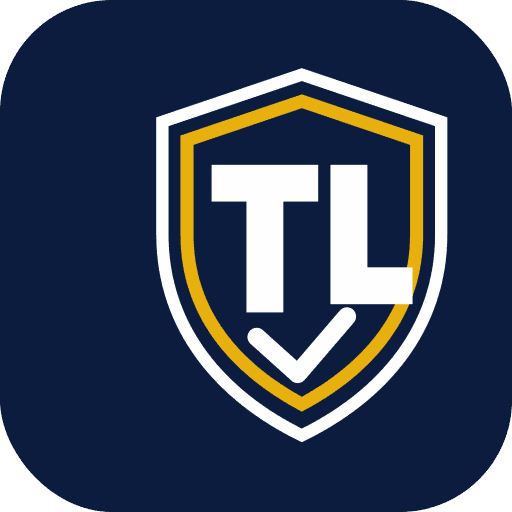
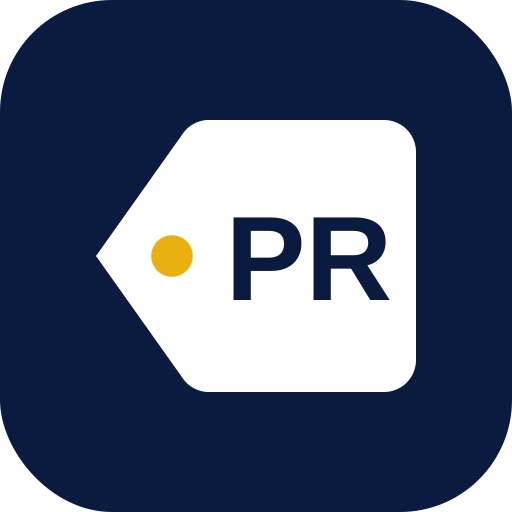
Rename to PriceRight Tech Ltd; fix camera scanner; add photo scan fallback
The camera box was hidden until filled, so the scanner measured it at zero
width and failed to start. It now shows before starting, falls back to any
available camera, explains permission errors, and offers a photo option.

Claude-Session: https://claude.ai/code/session_01DHj1jSjnjqGBsb7HLHoKHQ

Changed region(s): [[0.1875, 0.125, 0.875, 0.875]]

diff --git a/app.js b/app.js
@@ -1,5 +1,5 @@
 'use strict';
-/* Top League Electronics — store + staff app */
+/* PriceRight Tech Ltd — store + staff app */
 const CFG = window.TLE_CONFIG || {};
 const REMOTE = !!(CFG.supabaseUrl && CFG.supabaseAnonKey);
 const IS_STAFF = location.pathname.replace(/\/+$/, '').startsWith('/staff');
@@ -96,7 +96,7 @@ const S = { costs: {}, staff: {} }; COLL.forEach(c => S[c] = {});
 const DEFAULT_SETTINGS = {
   areas: [{ name: 'Dansoman', fee: 25 }, { name: 'Osu', fee: 35 }, { name: 'East Legon', fee: 40 }, { name: 'Madina', fee: 45 }, { name: 'Kasoa', fee: 50 }, { name: 'Tema', fee: 60 }],
   riders: [],
-  store: { name: 'Top League Electronics', branch: 'Main Branch', address: 'Accra, Ghana', phone: '', whatsapp: '', email: '', receiptFooter: 'Returns and warranty claims need the serial number shown above.' }
+  store: { name: 'PriceRight Tech Ltd', branch: 'Main Branch', address: 'Accra, Ghana', phone: '', whatsapp: '', email: '', receiptFooter: 'Returns and warranty claims need the serial number shown above.' }
 };
 // Offline-only accounts are not used once Supabase is connected; staff sign in with their Supabase logins.
 const LOCAL_STAFF = {};
@@ -323,7 +323,7 @@ const API = {
   async verify(serial, contact) {
     if (REMOTE) { const { data, error } = await sb.rpc('verify_purchase', { serial, contact }); if (error) throw new Error(friendlyErr(error.message)); return data }
     const s = normSerial(serial), u = S.units[s];
-    if (!u) return { ok: false, msg: 'No record of this serial. It was not sold by Top League Electronics.' };
+    if (!u) return { ok: false, msg: 'No record of this serial. It was not sold by PriceRight Tech Ltd.' };
     const f = findSaleItem(s);
     if (u.status !== 'sold' || !f) return { ok: false, msg: 'This serial can’t be claimed online. Please contact the shop.' };
     const c = cust(f.sale.custId), n = normPhone(contact), e = String(contact || '').trim().toLowerCase();
@@ -363,7 +363,7 @@ function openScanner({ title, onScan, keepOpen = false, help = '' }) {
   SC = { onScan, keepOpen, last: '', lastT: 0, cam: null };
   modal(esc(title), `${help ? `<p class="muted small" style="margin-bottom:14px">${help}</p>` : ''}
   <div id="reader" class="reader"></div>
-  <div class="row"><button class="btn pri" id="camBtn" onclick="startCam()">${ic('camera', 16)}Scan with camera</button><button class="btn ghost" onclick="stopCam()">Stop camera</button></div>
+  <div class="camrow"><button class="btn pri" id="camBtn" onclick="startCam()">${ic('camera', 16)}Scan with camera</button><label class="btn filebtn">${ic('image', 16)}Take a photo<input type="file" accept="image/*" capture="environment" onchange="scanPhoto(this)"></label></div><div id="readerFile" style="display:none"></div>
   <label class="f" for="manualSerial">Can’t scan it? Type the code</label>
   <div class="row"><input id="manualSerial" class="mono" autocomplete="off" autocapitalize="characters" spellcheck="false" onkeydown="if(event.key==='Enter')manualScan()"><button class="btn" onclick="manualScan()">Add</button></div>
   <p class="hint">A USB or Bluetooth barcode scanner also works: click in this box and scan. Typed codes are flagged in the audit log.</p>
@@ -379,15 +379,47 @@ async function handleCode(raw, method) {
   if (res.ok && !SC.keepOpen) setTimeout(closeModal, 380);
 }
 function manualScan() { const i = $('#manualSerial'); if (!i) return; const v = i.value; i.value = ''; handleCode(v, 'manual'); i.focus() }
+const SCAN_FORMATS = () => { const F = window.Html5QrcodeSupportedFormats; return F ? ['CODE_128', 'CODE_39', 'CODE_93', 'EAN_13', 'EAN_8', 'UPC_A', 'UPC_E', 'ITF', 'CODABAR', 'QR_CODE', 'DATA_MATRIX', 'PDF_417'].map(k => F[k]).filter(v => v !== undefined) : undefined };
+function camError(e) {
+  const n = (e && (e.name || e.message || e)) + '';
+  if (/NotAllowed|Permission/i.test(n)) return 'Camera permission is blocked. Allow camera access for this site in your browser settings, then try again.';
+  if (/NotFound|Requested device not found|no camera/i.test(n)) return 'No camera found on this device. Use “Take a photo” or type the code.';
+  if (/NotReadable|in use|Could not start/i.test(n)) return 'The camera is being used by another app. Close it and try again.';
+  if (!window.isSecureContext) return 'The camera only works on the secure (https) address.';
+  return 'Couldn’t start the camera. Use “Take a photo” or type the code.';
+}
 async function startCam() {
   if (!SC || SC.cam) return;
-  if (!window.Html5Qrcode) return toast('The camera scanner didn’t load. Check the connection, or type the code.', 'err');
+  if (!window.Html5Qrcode) return toast('The scanner didn’t load. Check the connection, or type the code.', 'err');
+  const box = $('#reader'); if (!box) return; box.classList.add('on');
+  const btn = $('#camBtn'); if (btn) btn.disabled = true;
+  const cfg = { fps: 12, aspectRatio: 1.6, qrbox: (w, h) => ({ width: Math.max(220, Math.floor(w * .88)), height: Math.max(110, Math.floor(Math.min(h, w) * .45)) }) };
+  const make = () => new Html5Qrcode('reader', { verbose: false, formatsToSupport: SCAN_FORMATS(), experimentalFeatures: { useBarCodeDetectorIfSupported: true } });
   try {
-    SC.cam = new Html5Qrcode('reader', { verbose: false, experimentalFeatures: { useBarCodeDetectorIfSupported: true } });
-    await SC.cam.start({ facingMode: 'environment' }, { fps: 12, qrbox: (w) => ({ width: Math.floor(Math.min(340, w * .9)), height: 130 }) }, txt => handleCode(txt, 'scan'), () => { });
-  } catch (e) { SC && (SC.cam = null); toast('Camera unavailable. Allow camera access, or type the code.', 'err') }
+    SC.cam = make();
+    try { await SC.cam.start({ facingMode: { ideal: 'environment' } }, cfg, txt => handleCode(txt, 'scan'), () => { }) }
+    catch (e1) {
+      if (/NotAllowed|Permission/i.test((e1 && e1.name || e1) + '')) throw e1;
+      const cams = await Html5Qrcode.getCameras();
+      if (!cams || !cams.length) throw e1;
+      const back = cams.find(c => /back|rear|environment/i.test(c.label)) || cams[cams.length - 1];
+      try { await SC.cam.clear() } catch (e) { }
+      SC.cam = make();
+      await SC.cam.start(back.id, cfg, txt => handleCode(txt, 'scan'), () => { });
+    }
+  } catch (e) { if (SC) SC.cam = null; box.classList.remove('on'); box.innerHTML = ''; toast(camError(e), 'err') }
+  finally { if (btn) btn.disabled = false }
 }
-async function stopCam() { if (SC && SC.cam) { try { await SC.cam.stop(); SC.cam.clear() } catch (e) { } SC.cam = null } }
+async function scanPhoto(inp) {
+  const f = inp.files && inp.files[0]; inp.value = ''; if (!f) return;
+  if (!window.Html5Qrcode) return toast('The scanner didn’t load. Type the code instead.', 'err');
+  await stopCam();
+  const tmp = new Html5Qrcode('readerFile', { verbose: false, formatsToSupport: SCAN_FORMATS(), experimentalFeatures: { useBarCodeDetectorIfSupported: true } });
+  try { const txt = await tmp.scanFile(f, false); handleCode(txt, 'scan') }
+  catch (e) { beep(false); toast('No barcode found in that photo. Hold the phone steady, fill the frame with the barcode and try again.', 'err') }
+  finally { try { tmp.clear() } catch (e) { } }
+}
+async function stopCam() { if (SC && SC.cam) { try { await SC.cam.stop(); SC.cam.clear() } catch (e) { } SC.cam = null } const b = $('#reader'); if (b) { b.classList.remove('on') } }
 const scanBtn = (label, sub, onclick) => `<button class="scan" onclick="${onclick}"><span class="sq">${ic('scan', 22)}</span><span><b>${label}</b><span class="sub">${sub}</span></span></button>`;
 const emptyBox = (icon, title, text, btn = '') => `<div class="empty">${ic(icon, 28, 1.5)}<b>${title}</b>${text}${btn ? `<div>${btn}</div>` : ''}</div>`;
 
@@ -417,8 +449,8 @@ function renderChrome() { if (IS_STAFF && ME) { const n = $('#navWrap'); if (n) 
 
 /* ================= staff: sign in ================= */
 function renderLogin(err = '') {
-  document.title = 'Sign in · Top League Staff';
-  $('#app').innerHTML = `<div class="auth"><div class="brandside"><div class="lockup"><span class="mk"></span><span class="wm">Top League<span>Electronics</span></span></div>
+  document.title = 'Sign in · PriceRight Staff';
+  $('#app').innerHTML = `<div class="auth"><div class="brandside"><div class="lockup"><span class="mk"></span><span class="wm">PriceRight<span>Tech Ltd</span></span></div>
   <div class="copy"><h1>Every device, scanned in and scanned out.</h1><p>Stock, sales, online orders and returns for the shop, tied together by the serial number.</p><div class="tagrow">${sn('IN STOCK')}${sn('SOLD')}${sn('VERIFIED')}</div></div>
   <small>Staff only. Customers can shop at <a href="/" style="color:#fff">${esc(location.host || 'the store')}</a>.</small></div>
   <div class="formside"><form onsubmit="event.preventDefault();doLogin(this)" novalidate><h2>Sign in</h2><p class="lede">Use the email and password from your IT admin.</p>
@@ -509,9 +541,9 @@ function renderStaff() {
   const r = route(), page = r.parts[0] || 'dashboard';
   const item = NAV.flatMap(g => g[1]).find(i => i[0] === page);
   if (!item || (item[3] && !can(item[3]))) { location.hash = '/dashboard'; return }
-  document.title = TITLES[page] + ' · Top League Staff';
+  document.title = TITLES[page] + ' · PriceRight Staff';
   const body = V[page](r);
-  $('#app').innerHTML = `<div class="app ${UI.menu ? 'open' : ''}"><aside class="side" aria-label="Main menu"><div class="lockup"><span class="mk"></span><span class="wm">Top League<span>Staff</span></span></div>
+  $('#app').innerHTML = `<div class="app ${UI.menu ? 'open' : ''}"><aside class="side" aria-label="Main menu"><div class="lockup"><span class="mk"></span><span class="wm">PriceRight<span>Staff</span></span></div>
   <nav id="navWrap">${navHTML()}</nav>
   <div class="foot">${canInstall() ? `<button class="sidebtn" onclick="installApp()">${ic('download', 18)}Install app</button>` : ''}<a class="sidebtn" href="/" target="_blank" rel="noopener">${ic('store', 18)}View online store</a><button class="sidebtn" onclick="signOut()">${ic('logout', 18)}Sign out</button>
   <div class="who"><span class="av">${esc(initials(meName()))}</span><span class="grow"><b>${esc(meName())}</b><span>${meName() === ROLE_NAME[ME.role] ? esc(ME.email) : ROLE_NAME[ME.role]}</span></span></div></div></aside>
@@ -773,13 +805,13 @@ V.receive = () => {
   const R = UI.recv, products = vals('products').sort((a, b) => a.name.localeCompare(b.name)); if (!R.pid && products[0]) R.pid = products[0].id;
   if (!products.length) return `<section class="card">${emptyBox('box', 'Add a product first', 'Stock is received against a product in your catalogue.', can('catalog') ? `<a class="btn pri" href="#/products?new=1">${ic('plus', 16)}Add product</a>` : 'Ask the shop owner to add the product.')}</section>`;
   const p = prod(R.pid) || {}, gap = R.expected && R.items.length < Number(R.expected), batches = vals('batches').sort((a, b) => b.t - a.t).slice(0, 15);
-  return `<div class="pagehead"><p class="lede">Every item goes on the shelf with a serial. Items without a manufacturer serial get a printed Top League label.</p></div>
+  return `<div class="pagehead"><p class="lede">Every item goes on the shelf with a serial. Items without a manufacturer serial get a printed PriceRight label.</p></div>
   <div class="cols c-main"><div><section class="card"><div class="hd"><h2>Delivery</h2></div><div class="bd">
   <label class="f" for="rProd" style="margin-top:0">Product</label><select id="rProd" onchange="UI.recv.pid=this.value;UI.recv.items=[];render()">${products.map(x => `<option value="${x.id}" ${x.id === R.pid ? 'selected' : ''}>${esc(x.name)}</option>`).join('')}</select>
   <div class="fgrid"><div><label class="f" for="rSup">Supplier</label><input id="rSup" value="${esc(R.supplier)}" oninput="UI.recv.supplier=this.value"></div><div><label class="f" for="rInv">Supplier invoice number</label><input id="rInv" value="${esc(R.invoice)}" oninput="UI.recv.invoice=this.value"></div>
   <div><label class="f" for="rExp">Quantity on invoice</label><input id="rExp" type="number" min="1" value="${esc(R.expected)}" oninput="UI.recv.expected=this.value"></div>${can('cost') ? `<div><label class="f" for="rCost">Unit cost for this delivery (GH₵)</label><input id="rCost" type="number" min="0" step="0.01" value="${esc(R.cost)}" placeholder="${S.costs['p:' + R.pid] ?? ''}" oninput="UI.recv.cost=this.value"></div>` : ''}</div></div></section>
   ${scanBtn('Scan serials', p.phone ? 'Scan each phone’s serial, then its IMEI.' : 'Continuous scanning. Duplicates are blocked.', `openScanner({title:'Scan serials',keepOpen:true,onScan:recvScan,help:'${esc(p.name || '').replace(/'/g, '')}'})`)}
-  <section class="card" style="margin-top:16px"><div class="hd"><h2>No manufacturer serial?</h2></div><div class="bd"><p class="small muted">Generate Top League serials and print barcode labels to stick on each item before it goes on the shelf.</p><div class="row mt"><input id="lblN" type="number" min="1" max="200" placeholder="Number of labels" style="max-width:180px"><button class="btn" onclick="genLabels()">${ic('tag', 16)}Generate labels</button></div></div></section></div>
+  <section class="card" style="margin-top:16px"><div class="hd"><h2>No manufacturer serial?</h2></div><div class="bd"><p class="small muted">Generate PriceRight serials and print barcode labels to stick on each item before it goes on the shelf.</p><div class="row mt"><input id="lblN" type="number" min="1" max="200" placeholder="Number of labels" style="max-width:180px"><button class="btn" onclick="genLabels()">${ic('tag', 16)}Generate labels</button></div></div></section></div>
   <section class="card"><div class="hd"><h2>This delivery</h2><span class="sp"></span>${gap ? st(`${R.items.length} of ${R.expected}, short`, 'a') : (R.expected && R.items.length ? st(`${R.items.length} of ${R.expected}`, 'g') : `<span class="small muted">${R.items.length} scanned</span>`)}</div>
   ${R.items.length ? `<div class="tw"><table><tr><th>Serial</th>${p.phone ? '<th>IMEI</th>' : ''}<th>Captured</th><th></th></tr>${R.items.map((i, k) => `<tr><td>${sn(i.serial, i.method === 'manual' ? 'typed' : '')}</td>${p.phone ? `<td class="mono">${i.imei || '<span style="color:var(--red)">Missing</span>'}</td>` : ''}<td class="small">${i.method === 'label' ? 'Label' : i.method === 'manual' ? 'Typed' : 'Scanned'}</td><td class="num"><button class="btn ghost sm" onclick="UI.recv.items.splice(${k},1);render()" aria-label="Remove">${ic('x', 14)}</button></td></tr>`).join('')}</table></div>` : emptyBox('scan', 'Nothing scanned yet', 'Scanned serials appear here.')}
   <div class="bd" style="border-top:1px solid var(--line-2)">${gap ? `<label class="f" for="gapReason" style="margin-top:0">Reason for the shortfall${can('closeGap') ? '' : ' (owner or IT admin must save)'}</label><input id="gapReason" style="margin-bottom:12px">` : ''}
@@ -788,12 +820,12 @@ V.receive = () => {
 };
 function genLabels() {
   const n = Math.min(200, Number(val('lblN')) || 0); if (!n) return toast('Enter how many labels you need.', 'err');
-  const list = []; for (let i = 0; i < n; i++) { let s; do { s = 'TLE' + rnd(7) } while (S.units[s] || UI.recv.items.some(x => x.serial === s)); UI.recv.items.push({ serial: s, imei: '', method: 'label' }); list.push(s) }
+  const list = []; for (let i = 0; i < n; i++) { let s; do { s = 'PRT' + rnd(7) } while (S.units[s] || UI.recv.items.some(x => x.serial === s)); UI.recv.items.push({ serial: s, imei: '', method: 'label' }); list.push(s) }
   render(); showLabels(list);
 }
 function showLabels(list) {
   const p = prod(UI.recv.pid) || {};
-  modal(`Print ${list.length} label${list.length > 1 ? 's' : ''}`, `<p class="small muted" style="margin-bottom:12px">Stick one on each item before it goes on the shelf. The serials are saved when you add the delivery to stock.</p><div class="labels" id="lblSheet">${list.map(s => `<div class="label"><b>TOP LEAGUE ELECTRONICS</b><svg data-s="${s}"></svg><div>${esc((p.name || '').slice(0, 36))}</div></div>`).join('')}</div>`,
+  modal(`Print ${list.length} label${list.length > 1 ? 's' : ''}`, `<p class="small muted" style="margin-bottom:12px">Stick one on each item before it goes on the shelf. The serials are saved when you add the delivery to stock.</p><div class="labels" id="lblSheet">${list.map(s => `<div class="label"><b>PRICERIGHT TECH LTD</b><svg data-s="${s}"></svg><div>${esc((p.name || '').slice(0, 36))}</div></div>`).join('')}</div>`,
     `<button class="btn" onclick="$('#printArea').innerHTML=$('#lblSheet').outerHTML;window.print()">${ic('printer', 16)}Print labels</button><button class="btn dark" onclick="closeModal()">Done</button>`);
   document.querySelectorAll('#lblSheet svg').forEach(el => { try { JsBarcode(el, el.dataset.s, { format: 'CODE128', height: 40, fontSize: 12, margin: 0 }) } catch (e) { el.outerHTML = '<div class="mono">' + el.dataset.s + '</div>' } });
 }
@@ -803,7 +835,7 @@ async function submitBatch() {
   let note = '';
   if (R.expected && R.items.length < Number(R.expected)) { if (!can('closeGap')) throw new Error('This delivery is short. The owner or IT admin needs to save it with a reason.'); note = val('gapReason').trim(); if (!note) throw new Error('Add a reason for the shortfall.') }
   const id = uid('B'), t = Date.now();
-  const units = R.items.map(i => ({ id: i.serial, serial: i.serial, imei: i.imei, pid: R.pid, status: 'in_stock', batch: id, source: i.method === 'label' ? 'Top League label' : 'Manufacturer', saleId: null, hist: [{ t, type: `Received in batch ${id}`, by: meName() }] }));
+  const units = R.items.map(i => ({ id: i.serial, serial: i.serial, imei: i.imei, pid: R.pid, status: 'in_stock', batch: id, source: i.method === 'label' ? 'PriceRight label' : 'Manufacturer', saleId: null, hist: [{ t, type: `Received in batch ${id}`, by: meName() }] }));
   const ch = { units, batches: [{ id, pid: R.pid, supplier: R.supplier.trim() || 'Not given', invoice: R.invoice.trim() || 'Not given', qty: units.length, expected: Number(R.expected) || null, t, by: meName(), note }], audit: [auditRec('Stock received', `${id}: ${units.length} × ${p.name}${note ? '. Short: ' + note : ''}`)] };
   R.items.filter(i => i.method === 'manual').forEach(i => ch.audit.push(auditRec('Serial typed at intake', i.serial)));
   if (can('cost') && R.cost !== '') ch.costs = units.map(u => ({ key: 'u:' + u.serial, cost: Number(R.cost) }));
@@ -822,7 +854,7 @@ V.inventory = () => {
 };
 function lookup(code) {
   const s = normSerial(code); const u = S.units[s] || vals('units').find(x => x.imei === String(code).trim());
-  if (!u) return modal('No record found', `<div class="refuse">${ic('alert', 16)}<span>${sn(s, 'bad')} was never received by Top League Electronics.</span></div>`, `<button class="btn dark" onclick="closeModal()">Close</button>`);
+  if (!u) return modal('No record found', `<div class="refuse">${ic('alert', 16)}<span>${sn(s, 'bad')} was never received by PriceRight Tech Ltd.</span></div>`, `<button class="btn dark" onclick="closeModal()">Close</button>`);
   const f = findSaleItem(u.serial), c = f && cust(f.sale.custId), cv = f && coverage(f.item, f.sale);
   const canChange = can('unitStatus') && ['in_stock', 'faulty', 'in_repair', 'returned_to_supplier', 'written_off'].includes(u.status);
   modal(esc(pname(u.pid)), `<div class="row" style="margin-bottom:16px">${sn(u.serial)}${stU(u.status)}</div>
@@ -1053,7 +1085,7 @@ V.settings = () => {
   <section class="card"><div class="hd"><h2>System</h2></div><div class="bd"><dl class="kv"><div><dt>Database</dt><dd>${REMOTE ? 'Connected to Supabase' : 'Not connected. Data is saved on this device only.'}</dd></div><div><dt>Online payments</dt><dd>${CFG.paystackPublicKey ? 'Paystack enabled' : 'Pay on delivery only'}</dd></div></dl><div class="row mt"><button class="btn" onclick="backup()">${ic('download', 16)}Download backup</button></div></div></section></div></div>`;
 };
 const areaRow = (a, i) => `<div class="row" style="margin-bottom:8px" data-area><input value="${esc(a.name)}" placeholder="Area" aria-label="Area"><input type="number" min="0" value="${esc(a.fee)}" placeholder="Fee" aria-label="Fee in cedis" style="max-width:110px;flex:0 0 110px"><button class="btn ghost sm" onclick="this.parentElement.remove()" aria-label="Remove">${ic('trash', 15)}</button></div>`;
-async function saveStore() { const s = { name: val('stN').trim() || 'Top League Electronics', branch: val('stB').trim(), address: val('stA').trim(), phone: val('stP').trim(), whatsapp: val('stW').trim(), email: val('stE').trim(), receiptFooter: val('stF').trim() }; await tx({ settings: [{ id: 'store', data: s }], audit: [auditRec('Store details updated', '')] }); toast('Store details saved', 'ok') }
+async function saveStore() { const s = { name: val('stN').trim() || 'PriceRight Tech Ltd', branch: val('stB').trim(), address: val('stA').trim(), phone: val('stP').trim(), whatsapp: val('stW').trim(), email: val('stE').trim(), receiptFooter: val('stF').trim() }; await tx({ settings: [{ id: 'store', data: s }], audit: [auditRec('Store details updated', '')] }); toast('Store details saved', 'ok') }
 async function saveAreas() { const a = [...document.querySelectorAll('[data-area]')].map(r => { const [n, f] = r.querySelectorAll('input'); return { name: n.value.trim(), fee: Number(f.value) || 0 } }).filter(a => a.name); await tx({ settings: [{ id: 'areas', data: a }], audit: [auditRec('Delivery areas updated', a.map(x => `${x.name} ${x.fee}`).join(', '))] }); toast('Delivery areas saved', 'ok'); render() }
 async function saveRiders(list) { await tx({ settings: [{ id: 'riders', data: list }], audit: [auditRec('Riders updated', list.join(', '))] }); render() }
 function backup() { const d = {}; COLL.forEach(c => d[c] = S[c]); if (can('cost')) d.costs = S.costs; download(`top-league-backup-${ymd()}.json`, JSON.stringify(d, null, 1), 'application/json') }
@@ -1092,17 +1124,17 @@ function renderStore() {
   const views = { '': SV.home, p: SV.product, cart: SV.cart, done: SV.done, track: SV.track, returns: SV.returns, warranty: SV.warranty };
   const body = (views[page] || SV.home)(r);
   const store = set_('store'), wa = normPhone(store.whatsapp);
-  document.title = page === 'p' && prod(r.parts[1]) ? prod(r.parts[1]).name + ' · Top League Electronics' : 'Top League Electronics';
-  $('#app').innerHTML = `<header class="shead"><div class="in"><a href="#/" class="lockup" aria-label="Top League Electronics home"><span class="mk ring"></span><span class="wm">Top League<span>Electronics</span></span></a>
+  document.title = page === 'p' && prod(r.parts[1]) ? prod(r.parts[1]).name + ' · PriceRight Tech Ltd' : 'PriceRight Tech Ltd';
+  $('#app').innerHTML = `<header class="shead"><div class="in"><a href="#/" class="lockup" aria-label="PriceRight Tech Ltd home"><span class="mk ring"></span><span class="wm">PriceRight<span>Tech Ltd</span></span></a>
   <nav class="snav">${SNAV.map(([k, l]) => `<a href="#/${k}" class="${page === k ? 'act' : ''}">${l}</a>`).join('')}</nav><span style="flex:1"></span>
   <div class="search" role="search">${ic('search', 16)}<input placeholder="Search products" value="${esc(r.q.get('q') || '')}" onkeydown="if(event.key==='Enter')go('?q='+encodeURIComponent(this.value))" aria-label="Search products"></div>
   <a class="btn cartbtn" href="#/cart">${ic('cart', 17)}<span>Cart</span><span class="n ${cartCount() ? '' : 'hide'}" id="cartN">${cartCount()}</span></a>
   <button class="drawer-btn" onclick="$('#drawer').classList.add('open')" aria-label="Menu">${ic('menu', 22)}</button></div></header>
-  <div class="drawer" id="drawer"><div class="scr" onclick="$('#drawer').classList.remove('open')"></div><div class="pane"><div class="row between" style="margin-bottom:10px"><span class="lockup"><span class="mk"></span><span class="wm">Top League<span>Electronics</span></span></span><button class="btn ghost sm" onclick="$('#drawer').classList.remove('open')" aria-label="Close">${ic('x', 18)}</button></div>
+  <div class="drawer" id="drawer"><div class="scr" onclick="$('#drawer').classList.remove('open')"></div><div class="pane"><div class="row between" style="margin-bottom:10px"><span class="lockup"><span class="mk"></span><span class="wm">PriceRight<span>Tech Ltd</span></span></span><button class="btn ghost sm" onclick="$('#drawer').classList.remove('open')" aria-label="Close">${ic('x', 18)}</button></div>
   <div class="search" style="width:100%;margin-bottom:8px">${ic('search', 16)}<input placeholder="Search products" onkeydown="if(event.key==='Enter'){$('#drawer').classList.remove('open');go('?q='+encodeURIComponent(this.value))}"></div>
   ${SNAV.map(([k, l]) => `<a href="#/${k}" onclick="$('#drawer').classList.remove('open')">${l}</a>`).join('')}<a href="#/cart" onclick="$('#drawer').classList.remove('open')">Cart (${cartCount()})</a>${canInstall() ? `<a href="#" onclick="event.preventDefault();installApp()">Install the app</a>` : ''}</div></div>
   <main class="store">${body}</main>
-  <footer class="sfoot"><div class="in"><div><span class="lockup"><span class="mk"></span><span class="wm">Top League<span>Electronics</span></span></span><p style="margin-top:14px;max-width:36ch">Laptops, phones, CCTV and storage. Every device sold with its serial number on the receipt.</p></div>
+  <footer class="sfoot"><div class="in"><div><span class="lockup"><span class="mk"></span><span class="wm">PriceRight<span>Tech Ltd</span></span></span><p style="margin-top:14px;max-width:36ch">Laptops, phones, CCTV and storage. Every device sold with its serial number on the receipt.</p></div>
   <div><h4>Help</h4><a href="#/track">Track an order</a><a href="#/returns">Return an item</a><a href="#/warranty">Check a warranty</a>${canInstall() ? `<button class="lnk" onclick="installApp()">Install the app</button>` : ''}</div>
   <div><h4>Visit or call</h4>${store.address ? `<span style="display:block;padding:3px 0">${esc(store.branch ? store.branch + ', ' : '')}${esc(store.address)}</span>` : ''}${store.phone ? `<a href="tel:${esc(store.phone)}">${esc(store.phone)}</a>` : ''}${wa.length >= 9 ? `<a href="https://wa.me/233${wa.slice(1)}" target="_blank" rel="noopener">WhatsApp us</a>` : ''}${store.email ? `<a href="mailto:${esc(store.email)}">${esc(store.email)}</a>` : ''}</div></div>
   <div class="base"><span>© ${new Date().getFullYear()} ${esc(store.name)}</span><a href="/staff" style="color:inherit">Staff sign in</a></div></footer>`;

diff --git a/app.css b/app.css
@@ -28,8 +28,8 @@ img{max-width:100%;display:block}
 
 /* brand */
 .lockup{display:flex;align-items:center;gap:10px;color:var(--navy)}
-.lockup .mk{width:32px;height:40px;background:url(/mark-small.svg) center/contain no-repeat;flex-shrink:0}
-.lockup .mk.ring{width:58px;height:48px;background-image:url(/mark.svg)}
+.lockup .mk{width:38px;height:38px;background:url(/mark-small.svg) center/contain no-repeat;flex-shrink:0}
+.lockup .mk.ring{width:44px;height:44px;background-image:url(/mark.svg)}
 .wm{font-weight:700;text-transform:uppercase;line-height:1.05;font-size:15px;letter-spacing:-.005em}
 .wm span{display:block;font-size:9.5px;font-weight:600;letter-spacing:.34em;margin-top:4px;opacity:.85}
 
@@ -212,7 +212,10 @@ td.num,th.num{text-align:right;font-variant-numeric:tabular-nums}
 .mb{padding:18px}
 .mf{display:flex;justify-content:flex-end;gap:8px;padding:12px 18px;border-top:1px solid var(--line-2);flex-wrap:wrap}
 .reader{width:100%;border-radius:var(--r);overflow:hidden;background:#0A1430;margin-bottom:12px}
-.reader:empty{display:none}
+.reader{display:none}.reader.on{display:block;min-height:220px}
+.reader video{width:100%!important;height:auto!important;display:block}
+.camrow{display:flex;gap:8px;flex-wrap:wrap}.camrow .btn{flex:1;min-width:150px}
+.filebtn{position:relative;overflow:hidden}.filebtn input{position:absolute;inset:0;opacity:0;cursor:pointer}
 .log{max-height:220px;overflow:auto;margin-top:12px}
 .log div{display:flex;gap:8px;align-items:center;padding:8px 0;border-top:1px solid var(--line-2);font-size:13px;flex-wrap:wrap}
 .log .ok{color:var(--green)}.log .no{color:var(--red)}
@@ -336,3 +339,4 @@ td.num,th.num{text-align:right;font-variant-numeric:tabular-nums}
 }
 @media (prefers-reduced-motion:reduce){*{transition:none!important;animation:none!important}}
 @media print{body *{visibility:hidden}#printArea,#printArea *{visibility:visible}#printArea{display:block;position:absolute;left:0;top:0}.receipt{border:0}}
+.side .lockup .mk,.auth .brandside .lockup .mk,.sfoot .lockup .mk{background-image:url(/mark-light.svg)}

diff --git a/sw.js b/sw.js
@@ -1,5 +1,5 @@
-const V='tle-v3';
-const SHELL=['/','/staff','/index.html','/app.js','/app.css','/config.js','/manifest.webmanifest','/staff.webmanifest','/icon.svg','/icon-192.png','/mark.svg','/mark-small.svg'];
+const V='prt-v4';
+const SHELL=['/','/staff','/index.html','/app.js','/app.css','/config.js','/manifest.webmanifest','/staff.webmanifest','/icon.svg','/icon-192.png','/icon-512.png','/mark.svg','/mark-small.svg','/mark-light.svg'];
 const CDN=/^https:\/\/(cdn\.jsdelivr\.net|cdnjs\.cloudflare\.com|unpkg\.com|fonts\.googleapis\.com|fonts\.gstatic\.com)\//;
 self.addEventListener('install',e=>{e.waitUntil(caches.open(V).then(c=>c.addAll(SHELL)).catch(()=>{}));self.skipWaiting()});
 self.addEventListener('activate',e=>{e.waitUntil(caches.keys().then(k=>Promise.all(k.filter(x=>x!==V).map(x=>caches.delete(x)))).then(()=>self.clients.claim()))});

diff --git a/index.html b/index.html
@@ -3,12 +3,12 @@
 <head>
 <meta charset="utf-8">
 <meta name="viewport" content="width=device-width,initial-scale=1,viewport-fit=cover">
-<title>Top League Electronics</title>
+<title>PriceRight Tech Ltd</title>
 <meta name="description" content="Laptops, phones, CCTV and storage in Accra. Every item sold with its serial number on the receipt.">
 <meta name="theme-color" content="#0B1B3F">
 <meta name="apple-mobile-web-app-capable" content="yes">
 <meta name="apple-mobile-web-app-status-bar-style" content="black-translucent">
-<meta name="apple-mobile-web-app-title" content="Top League">
+<meta name="apple-mobile-web-app-title" content="PriceRight">
 <link id="manifest" rel="manifest" href="/manifest.webmanifest">
 <link rel="icon" href="/icon.svg" type="image/svg+xml">
 <link rel="apple-touch-icon" href="/icon-192.png">
